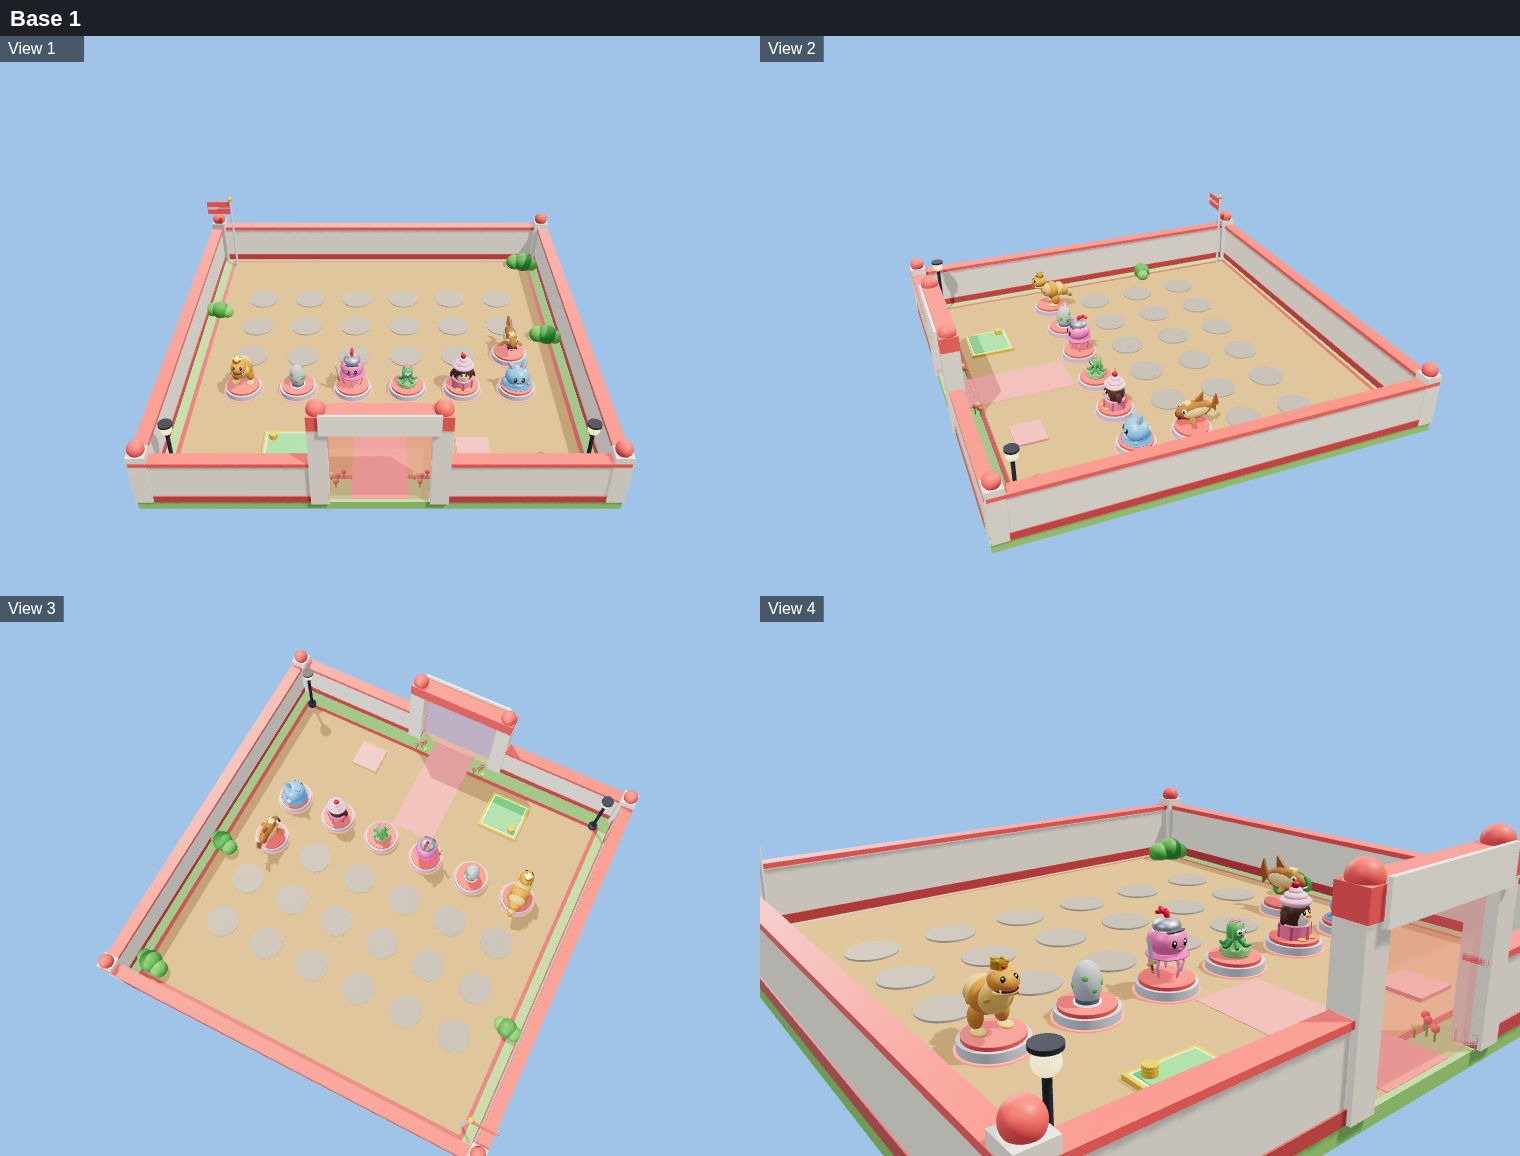
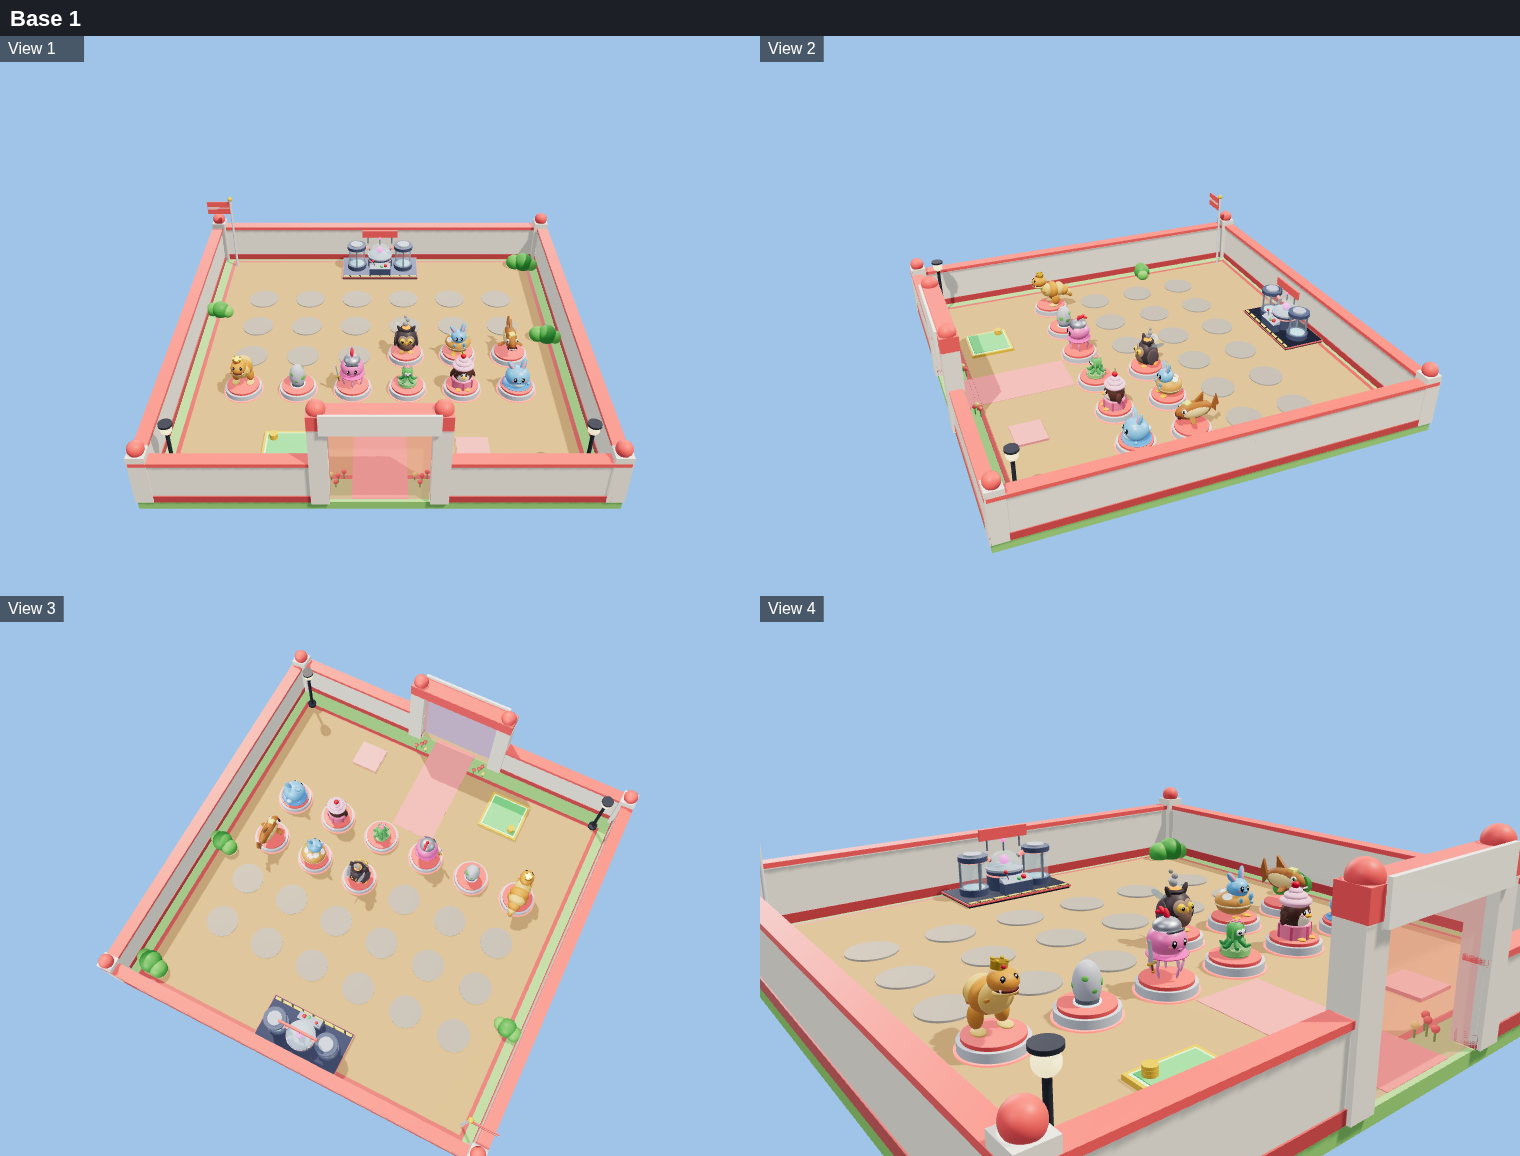
Test fusion saves and machine layout; document Milestone 5
Claude-Session: https://claude.ai/code/session_0194nKWegpUdGRM2Uk6wcnmH

diff --git a/README.md b/README.md
@@ -6,6 +6,15 @@ out of yours).
 
 ![All 21 creatures](docs/images/sheet-adult.png)
 
+Fuse two creatures into a hybrid. Eight secret recipes have their own hand-made look:
+
+![Named recipe hybrids](docs/images/recipes.png)
+
+Every other pair makes a fallback hybrid. It has the rarer parent's body plus the other
+parent's signature piece:
+
+![Fallback hybrids](docs/images/hybrids.png)
+
 The repository is the source of truth. Every script, and every model, lives here as code and is
 synced into Studio with [Rojo](https://rojo.space).
 
@@ -18,6 +27,7 @@ Done so far:
 - Milestone 2: saving.
 - Milestone 3: night raids and PvP.
 - Milestone 4: menus, tutorial and sounds.
+- Milestone 5: the Fusion Machine, hybrids and the Index.
 
 See [CHANGELOG.md](CHANGELOG.md) for what each milestone adds.
 
@@ -61,28 +71,30 @@ src/
     Growth.lua            growth stage math from plantedAt timestamps
     Economy.lua           prices and income formulas (pedestal cost, sell value, income/s)
     Tags.lua              CollectionService tag names
-    CreatureData.lua      the 21 creatures: id, rarity, income, grow time, price, tags
+    CreatureData.lua      the 21 creatures plus hybrid lookup (named recipes and fallbacks)
+    FusionRecipes.lua     named fusion recipes: pairs of creatures -> hand-made hybrids
     Types.lua             PlayerData / CreatureRecord shapes
     Util/Format.lua       1.2K / 3.4M number formatting, timers
     Util/Signal.lua       tiny event object for service-to-service events
     Models/ModelKit.lua   primitives, rig and face helpers used by every model
-    Models/CreatureModels.lua  every creature's Egg / Baby / Adult model
+    Models/CreatureModels.lua  every creature's Egg / Baby / Adult model, hybrids included
     Models/Gallery.lua    the dev creature showroom layout
   server/                 -> ServerScriptService
     Main.server.lua       bootstrap: remotes, then init/start each service in order
     Services/             DataService, MapService, BaseService, CreatureService,
                           GrowthService, IncomeService, ConveyorService, CycleService,
-                          RaidService, CombatService, TrapService, TutorialService
+                          RaidService, CombatService, TrapService, FusionService,
+                          TutorialService
     Util/                 Net (validated, rate-limited remotes), Guard (validators), RateLimiter,
                           Ticker (the single server heartbeat), Character (distance checks)
-    World/                MapBuilder (lobby, conveyor, 8 bases), Props (trees, lamps, signs)
+    World/                MapBuilder (lobby, conveyor, 8 bases), FusionMachine, Props
   client/                 -> StarterPlayer.StarterPlayerScripts
     Main.client.lua       bootstrap for controllers
     Controllers/          one per feature (HUD, creatures, conveyor, cycle, shields, raids,
-                          combat, menu, sound, tutorial)
+                          combat, menu, fusion, sound, tutorial)
     UI/                   Theme, Widgets, Window, Popup, Banner, Effects, Sounds
-    Screens/              Shop, Inventory, Index, Settings windows
-    State/                client-side state: profile summary, settings, raid rules
+    Screens/              Shop, Inventory, Index, Fusion, Settings windows
+    State/                client-side state: profile summary, settings, raid rules, your creatures
 tests/run.luau            headless tests (Lune)
 tools/preview/            renders models to PNG outside Studio (Lune + three.js)
 tools/check.sh            runs every automated check
@@ -126,9 +138,19 @@ checks the code as you edit, using Rojo's sourcemap.
 lune run tools/preview/export.luau creatures blobbit toastshark   # or no ids for all
 lune run tools/preview/export.luau sheets                         # every creature on one sheet
 lune run tools/preview/export.luau map                            # lobby, a furnished base, whole map
+lune run tools/preview/export.luau recipes                        # the named recipe hybrids
+lune run tools/preview/export.luau hybrids [creatureId ...]       # fallback hybrids, 20 per sheet
+lune run tools/preview/export.luau machine blobbit toastshark     # the Fusion Machine mid-fusion
 cd tools/preview && npm install && node render.mjs                # renders out/*.json to out/*.png
 lune run tools/preview/export.luau rbxm                           # build/Creatures.rbxm to drag into Studio
 ```
+
+## Fusion and first discoveries
+
+First discoveries are saved in the global DataStore named in `Config.DiscoveryStoreName`.
+They are announced to other servers on the MessagingService topic `Config.DiscoveryTopic`.
+In Studio, turn on **Game Settings → Security → Enable Studio Access to API Services** to
+test them for real. Without it, each server remembers its own first discoveries.
 
 ## Turning things off before publishing
 

diff --git a/CHANGELOG.md b/CHANGELOG.md
@@ -1,5 +1,61 @@
 # Changelog
 
+## [0.6.0] - Milestone 5: fusion and the Index
+
+### Added
+- A Fusion Machine in every base (`World/FusionMachine`) along the back wall. It has two
+  glass pods, pipes into a glass reactor dome, a control desk, a "FUSION LAB" sign, and a
+  floating status ("Fusing... 0:42"). The reactor core pulses and shifts color while fusing.
+- Fusing (`FusionService`, the `StartFusion` remote, the Fusion window):
+  - Pick two of your adult originals that are standing on your pedestals, see what they
+    make, and send them into the machine.
+  - After `Config.FusionTimeSec` the hybrid is born as an adult on a free pedestal. With
+    no free pedestal it waits in the machine.
+  - The server re-checks ownership, the distance to the machine, the adult stage, that
+    both are originals, and that the machine is free.
+  - The job is saved with both parents. Leaving or a shutdown loses nothing, and the timer
+    keeps running offline.
+  - A hybrid keeps a mutation only when both parents share it.
+  - `FusionService.durationFor` is ready for the "faster fusion" pass.
+- Named recipes (`FusionRecipes`): eight hand-made hybrids with their own models.
+  - Jelly Donut, Cactortoise, Boogie Knight, Mothball, Magmutt, Brunchasaurus, Goose.exe
+    and Sushirrito.
+  - They earn (a + b) x `Config.FusionRecipeBonus` and range from Rare to Secret.
+- Fallback hybrids for the other 202 pairs, with the id `fusion:<lead>+<donor>`.
+  - The rarer parent leads. It gives the body and the start of the name; the donor gives
+    its signature piece and the end of the name: Toastshark + Blobbit = "Toastbit".
+  - Rarity is the lead's tier + 1, never into Secret without a Secret parent. Income is
+    (a + b) x `Config.FusionBonus`.
+  - A hybrid is worth exactly its parents, so fusing never creates coins through selling.
+  - Hybrids can't be fused again.
+- Hybrid models:
+  - Every original now has a signature trait for its Head, Back or Face slot (ears, hats,
+    caps, clouds, wings, an envelope, cushion plates, neon shades, ...) and anchors where
+    pieces from others attach.
+  - A fallback hybrid is the lead's body with the donor's piece on the matching anchor,
+    resized to fit and in the donor's colors. Whatever sat there on the lead is left out.
+  - The 21 originals still build exactly the same geometry as before (checked part by part).
+- First discoveries:
+  - The first time anyone makes a named recipe, it is claimed in a global DataStore with
+    an atomic `UpdateAsync`.
+  - It is announced with a "FIRST DISCOVERY!" banner on this server and, through
+    MessagingService, on every other server.
+  - Without API access (Studio) claims fall back to the current server.
+- A reveal popup with the new hybrid turning in 3D (`Popup` now takes a `creatureId`).
+- Index sections:
+  - Creatures (21 originals).
+  - Secret recipes: silhouettes until fused, with who found each one first.
+  - Your hybrids.
+- `MyCreatures` client state, shared by the Inventory and Fusion windows.
+- `CreatureModels.build` takes a `scale` (the machine shows small parents and results).
+- Previews: `export.luau hybrids`, `recipes`, `machine` and `hybridsample`.
+- Tests:
+  - every named and fallback hybrid at every stage;
+  - fusion rules, names and rarity;
+  - coin neutrality;
+  - saving a fusion in progress;
+  - the machine's placement in every base.
+
 ## [0.5.0] - Milestone 4: UI and onboarding
 
 ### Added
